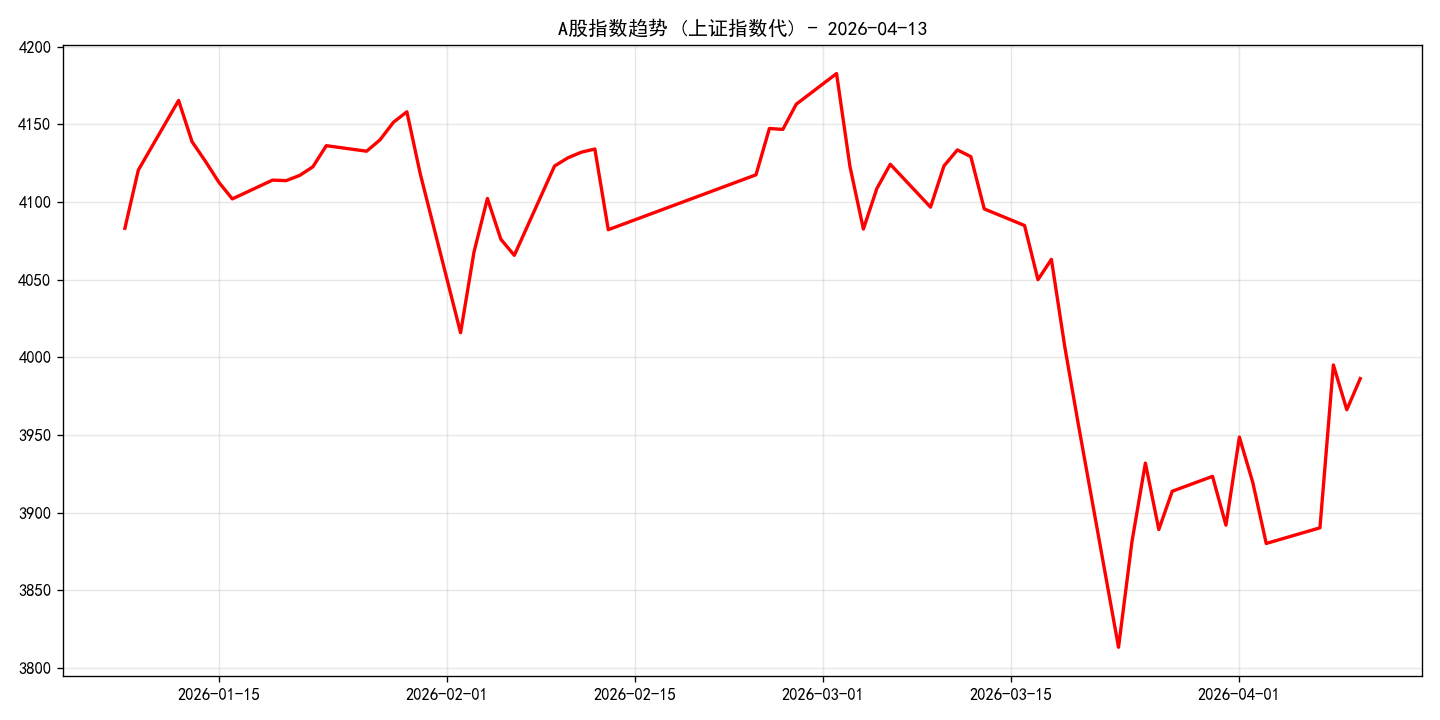
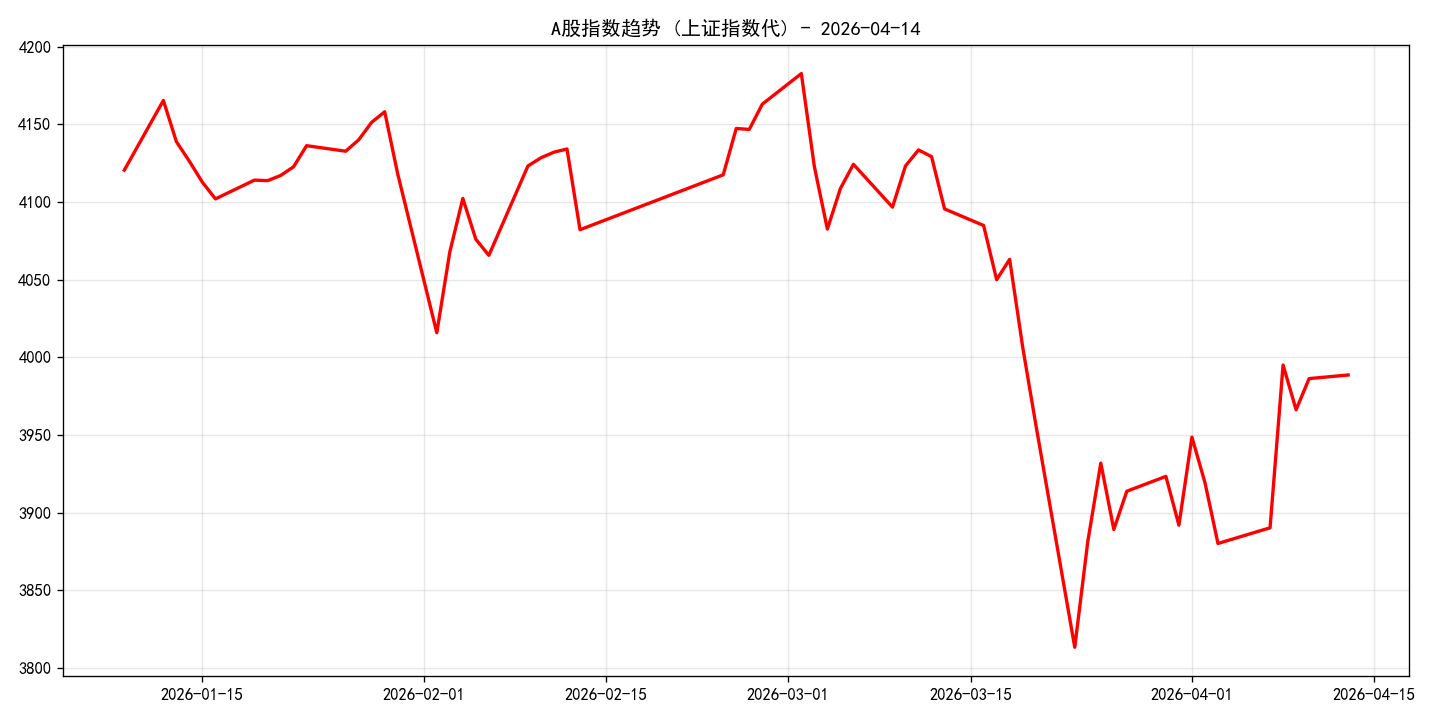
Auto: Daily A-share Recap Update 2026-04-14

diff --git a/ashare_recap.html b/ashare_recap.html
@@ -3,7 +3,7 @@
 <head>
     <meta charset="UTF-8">
     <meta name="viewport" content="width=device-width, initial-scale=1.0">
-    <title>A股收盘复盘 - 2026-04-13</title>
+    <title>A股收盘复盘 - 2026-04-14</title>
     <style>
         body { font-family: sans-serif; padding: 20px; line-height: 1.6; max-width: 800px; margin: 0 auto; background: #f9f9f9; }
         .card { background: white; padding: 20px; border-radius: 12px; shadow: 0 4px 10px rgba(0,0,0,0.1); }
@@ -15,12 +15,12 @@
 </head>
 <body>
     <div class="card">
-        <h1>A股收盘复盘 (2026-04-13)</h1>
+        <h1>A股收盘复盘 (2026-04-14)</h1>
         <div class="stat">
-            中证全指：6103.84 
-            <span class="up">(+0.23%)</span>
+            中证全指：6181.43 
+            <span class="up">(+1.27%)</span>
         </div>
-        <p>今日市场呈现<strong>上涨</strong>态势。成交额约为 21122.97 亿元。</p>
+        <p>今日市场呈现<strong>上涨</strong>态势。成交额约为 23420.24 亿元。</p>
         <img src="ashare_recap_trend.png" alt="Trend">
         <hr>
         <p style="text-align: center; color: #666;">自动生成于收盘后一小时 | 投研助手 Q</p>
